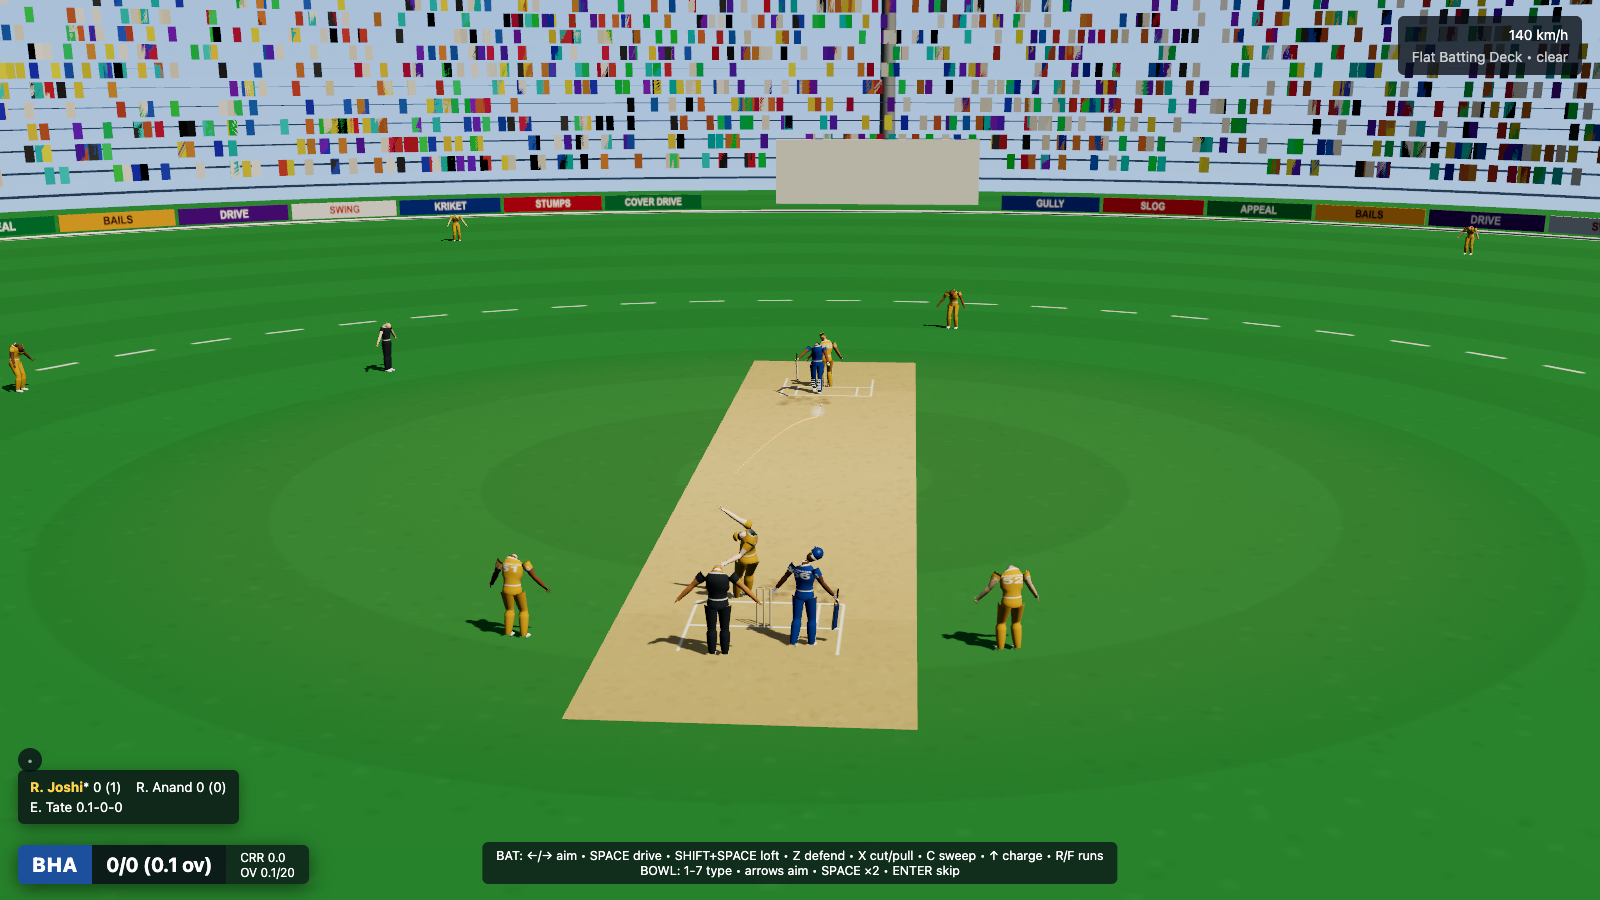
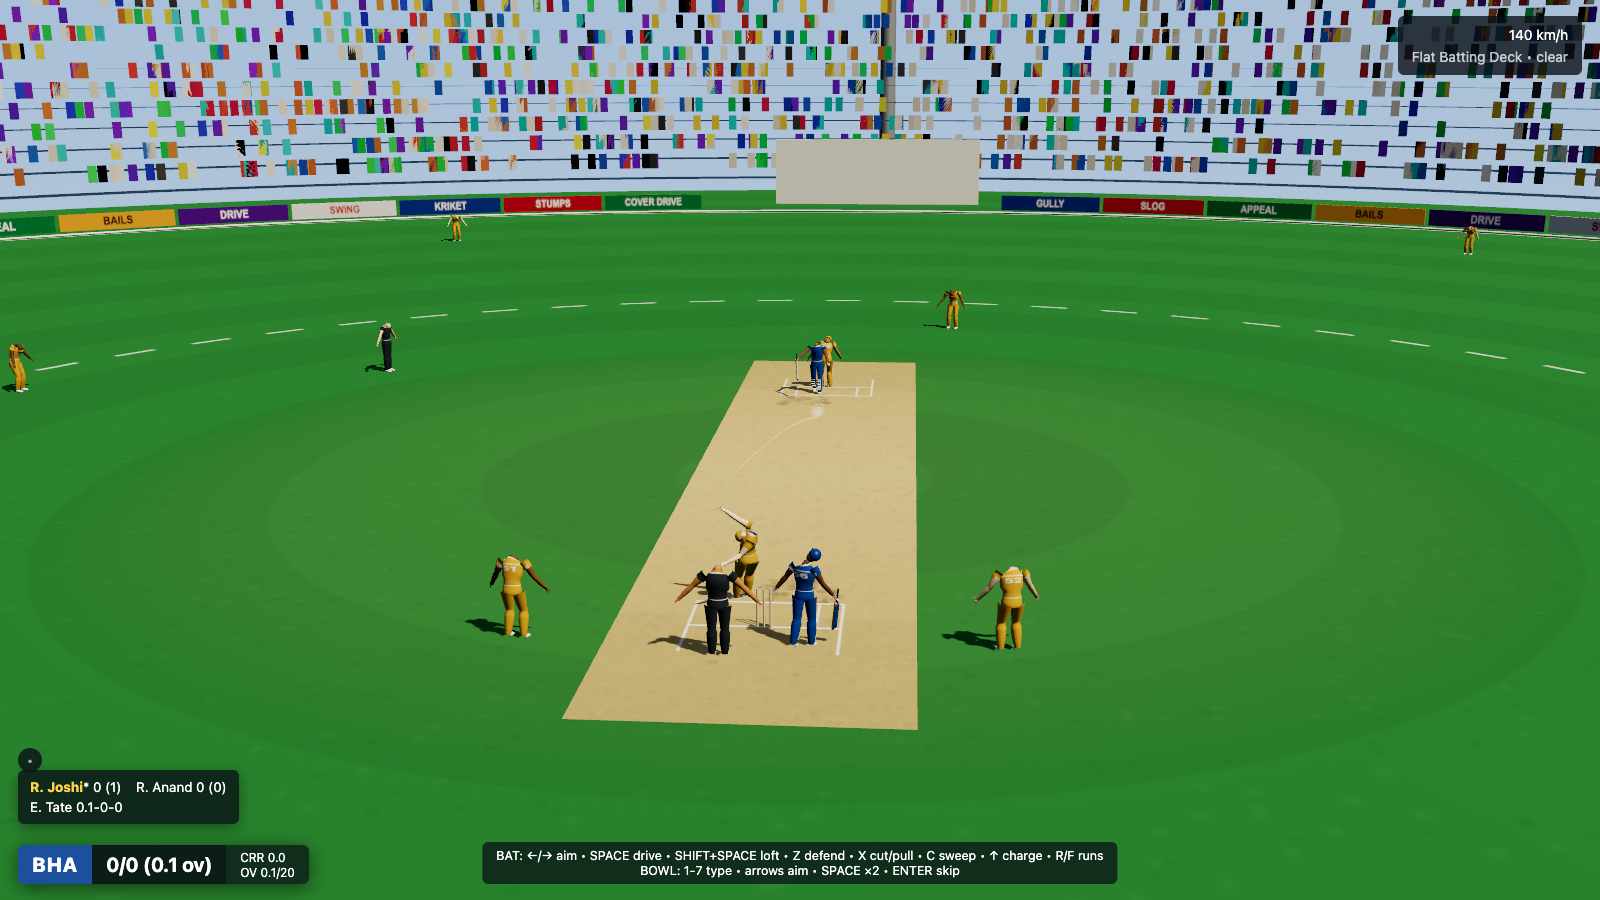
README: HumanKit section; QA probes (perf/stability/running)

diff --git a/README.md b/README.md
@@ -6,6 +6,25 @@ event: seam presentation, swing (conventional and reverse), spin, pitch interact
 bat–ball collision, fielding, throwing and running between wickets are all simulated,
 not scripted.
 
+## Humans — powered by Xirtus HumanKit
+
+Every player on the field is a **Xirtus HumanKit** human (`@xirtus/humankit`, sibling
+package at `../xirtus-humankit`): a seeded, parametric, fully rigged character on the
+canonical `XIRTUS_HUMANOID_V1` skeleton — skinned body, face with real eyes, hair,
+team kit printed with actual names and numbers, pads/gloves/helmets/caps as
+socket-mounted equipment, and a 74-clip animation vault (locomotion, sports,
+cricket-specific shots/bowling/keeping/umpiring). Identities are deterministic per
+player id, batters render at HERO tier, and ball-tracking IK keeps heads and eyes
+on the play.
+
+```
+Mixamo / MetaHuman / MakeHuman / BVH mocap ──► XIRTUS_HUMANOID_V1 ──► HumanKit ──► this game
+```
+
+The same package drops into any Three.js game: `import { createAthlete, PRESETS } from '@xirtus/humankit'`.
+See `../xirtus-humankit/README.md`, the Character Lab (`cd ../xirtus-humankit && npm run lab`),
+and `../xirtus-humankit/ASSET_ACQUISITION.md` for mocap enrichment.
+
 ## Play
 
 ```bash
